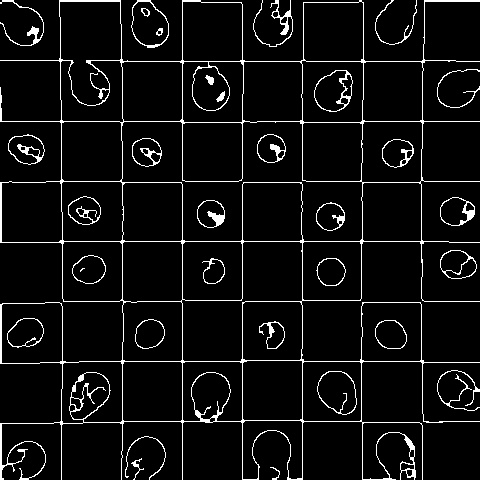
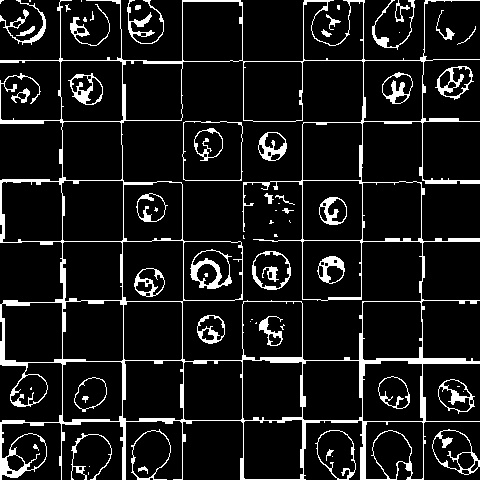
Dernier fix concluant

diff --git a/vision/ChessCamera.py b/vision/ChessCamera.py
@@ -136,7 +136,7 @@ class ChessCamera(object):
         current.img = cv2.bilateralFilter(current.img, CANNY_BLUR, 17, 17)
         clahe = cv2.createCLAHE(clipLimit=4.0, tileGridSize=(10,10))
         #current.img = clahe.apply(current.img)
-        current.img = cv2.equalizeHist(current.img)
+        #current.img = cv2.equalizeHist(current.img)
 
         if DEBUG : cv2.imwrite("output/edged.jpg", edged.img)
 
@@ -190,8 +190,8 @@ class ChessCamera(object):
 
         if DEBUG : cv2.imwrite("output/gray.jpg", img)
 
-        #edged = cv2.Canny(img, CANNY_LOWER, CANNY_UPPER)
-        edged = self.auto_canny(img, CANNY_SIGMA)
+        edged = cv2.Canny(img, CANNY_LOWER, CANNY_UPPER)
+        #edged = self.auto_canny(img, CANNY_SIGMA)
 
         kernel_dilate = cv2.getStructuringElement(cv2.MORPH_RECT,(EDGE_DILATE,EDGE_DILATE))
         kernel_erode = cv2.getStructuringElement(cv2.MORPH_RECT,(EDGE_ERODE,EDGE_ERODE))

diff --git a/vision/constants.py b/vision/constants.py
@@ -1,20 +1,20 @@
-DEBUG = True
-RUN_ON_PI = False
+DEBUG = False
+RUN_ON_PI = True
 
 # BOARD CONSTANTS
 SQUARE_SIZE = 60
 BOARD_SIZE = SQUARE_SIZE * 8
 
-CAMERA_ISO = 1600
-CAMERA_COMP = 20
+CAMERA_ISO = 600
+CAMERA_COMP = 15
 
 # IMAGE PROCESS
 RESCALE_RATIO = 1.015
 
-CANNY_SIGMA = 0.8
-CANNY_LOWER = 80
-CANNY_UPPER = 200
-CANNY_BLUR = 13
+CANNY_SIGMA = 0.66
+CANNY_LOWER = 40
+CANNY_UPPER = 100
+CANNY_BLUR = 5
 CANNY_GAMMA = 1
 
 CLAHE_LIMIT = 1.0
@@ -23,11 +23,11 @@ CLAHE_GRID = 8
 EDGE_DILATE = 6
 EDGE_ERODE = 6
 
-MASK_DRAW = False
-MASK_BLUR = 11
+MASK_DRAW = True
+MASK_BLUR = 9
 MASK_DILATE = 9
 MASK_DILATE_ITER = 1
-MASK_ERODE_ITER = 3
+MASK_ERODE_ITER = 4
 MASK_COLOR = (0,0,0)
 
 THRESHOLD_PRESENCE = 80
